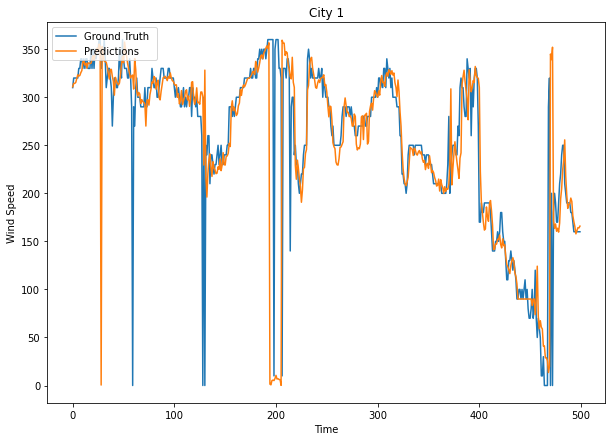
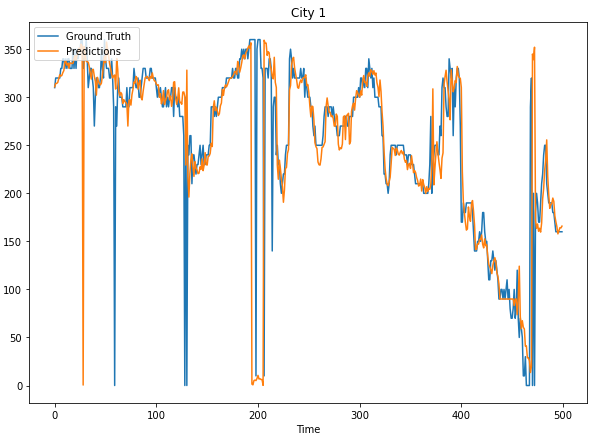
add plots

Changed region(s): [[0.0, 0.0, 1.0, 0.9795], [0.4848, 0.9498, 0.5455, 1.0]]

diff --git a/src/vis.py b/src/vis.py
@@ -9,7 +9,7 @@ from sklearn.metrics import mean_absolute_error
 import matplotlib.pyplot as plt
 
 
-def results(y_true, y_preds, plots=True):
+def results(y_true, y_preds, feature_name, plots=True):
     """Visualization of windspeed predictions vs ground truth and
     Overall evaluation the predictions of the test data"""
 
@@ -22,7 +22,7 @@ def results(y_true, y_preds, plots=True):
             plt.plot(range(len(y_true[:, i])), y_true[:, i], label='Ground Truth ')
             plt.plot(range(len(y_preds[:, i])), y_preds[:, i], label='Predictions')
             plt.title('City '+str(i+1))
-            plt.xlabel('Time')
-            plt.ylabel('Wind Speed')
+            plt.xlabel('Time Index')
+            plt.ylabel('Wind ' + feature_name)
             plt.legend(loc="upper left")
             plt.show()

diff --git a/src/models.py b/src/models.py
@@ -39,9 +39,9 @@ class BiLinearPoolingLSTM(nn.Module):
         self.input_size = input_size
         self.hidden_size = hidden_size
         self.seq_length = 10
-        self.lstm1 = nn.LSTM(input_size=input_size, hidden_size=self.hidden_size,
+        self.lstm1 = nn.LSTM(input_size=input_size[0], hidden_size=self.hidden_size,
                             num_layers=num_layers, batch_first=True, bidirectional=True)
-        self.lstm2 = nn.LSTM(input_size=input_size, hidden_size=self.hidden_size,
+        self.lstm2 = nn.LSTM(input_size=input_size[1], hidden_size=self.hidden_size,
                             num_layers=num_layers, batch_first=True, bidirectional=True)
         self.linear = nn.Linear(((hidden_size*2)+1)**2, output_size)
     

diff --git a/src/load_data.py b/src/load_data.py
@@ -38,13 +38,15 @@ def make_ready_data(data, train=True, feature='speed', gap=1):
     x_len = 10  # 10 historical time steps
     y_len = 1  # next step
 
-    """we need the tempretaure in addition to the wind speed"""
-    if feature == 'tempreture':
+    """we need the temperature in addition to the wind speed"""
+    if feature == 'temperature':
         idx = 2
     elif feature == 'speed':
         idx = 0
     elif feature == 'direction':
         idx = 1
+    elif feature == 'pressure':
+        idx = 4
         
     
     x, y = build_data(data[:, :, idx], x_len, y_len, gap)

diff --git a/README.md b/README.md
@@ -17,8 +17,10 @@ Here we see how temperature can have effect on wind speed and direction. we buil
 
 ### Results
 [Check Demo](https://github.com/mhmdrdwn/NLweather/blob/main/demo.ipynb)
+
 ### Wind Speed
 
+#### Error matrics
 
 | Error | Model             | 1H ahead | 5H ahead|10H ahead|50H ahead|
 |-------| ----------------- |:--------:|:-------:|:-------:|:-------:|
@@ -27,18 +29,28 @@ Here we see how temperature can have effect on wind speed and direction. we buil
 | RMSE  | LSTM Baseline     | 11.84    |  17.77  |  22.18  |  24.19  |
 | RMSE  | LSTM+BiLinPooling | 10.82    |  13.43  |   16.18 |  22.81  |
 
-| Forcasting of wind speed using vanilla LSTM  | Forcasting of wind speed using LSTM with BiLinear Pooling |
+#### sample visualization
+
+| forcasting of wind speed using vanilla LSTM  | forcasting of wind speed using LSTM with BiLinear Pooling |
 |----------------------------------------------| --------------------------------------------------------- |
 | ![alt text](https://github.com/mhmdrdwn/NLweather/blob/main/plots/lstm_speed.png) | ![alt text](https://github.com/mhmdrdwn/NLweather/blob/main/plots/lstm_bi_speed.png)     |
 
 ### Wind Direction
 
+#### Error matrics
+
 | Error | Model             | 1H ahead | 5H ahead|10H ahead|50H ahead|
 |-------| ----------------- |:--------:|:-------:|:-------:|:-------:|
 | MAE   | LSTM Baseline     |  29.08   |  43.29  |   54.65 |  67.07  | 
-| MAE   | LSTM+BiLinPooling |  22.95   |  34.20  |   41.69 |  17.33  | 
+| MAE   | LSTM+BiLinPooling |  22.95   |  34.20  |   41.69 |  65.93  | 
 | RMSE  | LSTM Baseline     |  65.07   |  78.30  |   86.88 |  86.06  |
-| RMSE  | LSTM+BiLinPooling |  58.74   |  70.59  |   77.69 |  22.81  |
+| RMSE  | LSTM+BiLinPooling |  58.74   |  70.59  |   77.69 |  93.05  |
+
+#### sample visualization
+
+| Sample forcasting of wind speed using vanilla LSTM  | Sample forcasting of wind speed using LSTM with BiLinear Pooling |
+|----------------------------------------------| --------------------------------------------------------- |
+| ![alt text](https://github.com/mhmdrdwn/NLweather/blob/main/plots/lstm_dir.png) | ![alt text](https://github.com/mhmdrdwn/NLweather/blob/main/plots/lstm_bi_dir.png)     |
 
 
 ### References: Dataset source and project structure
